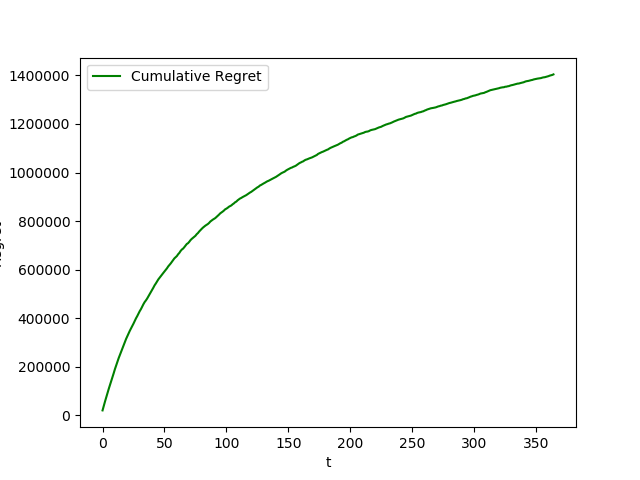
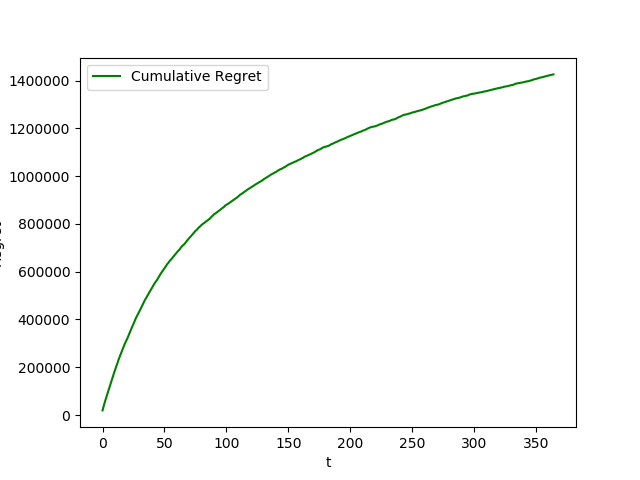
Update:  - upload images

diff --git a/src/assignment_7/assignment_7.py b/src/assignment_7/assignment_7.py
@@ -18,7 +18,7 @@ T = 365
 colors = ['r', 'b', 'g']
 
 # number of experiments
-n_experiments = 50
+n_experiments = 10
 
 # subcampaigns array
 subcampaigns = [0, 1, 2]
